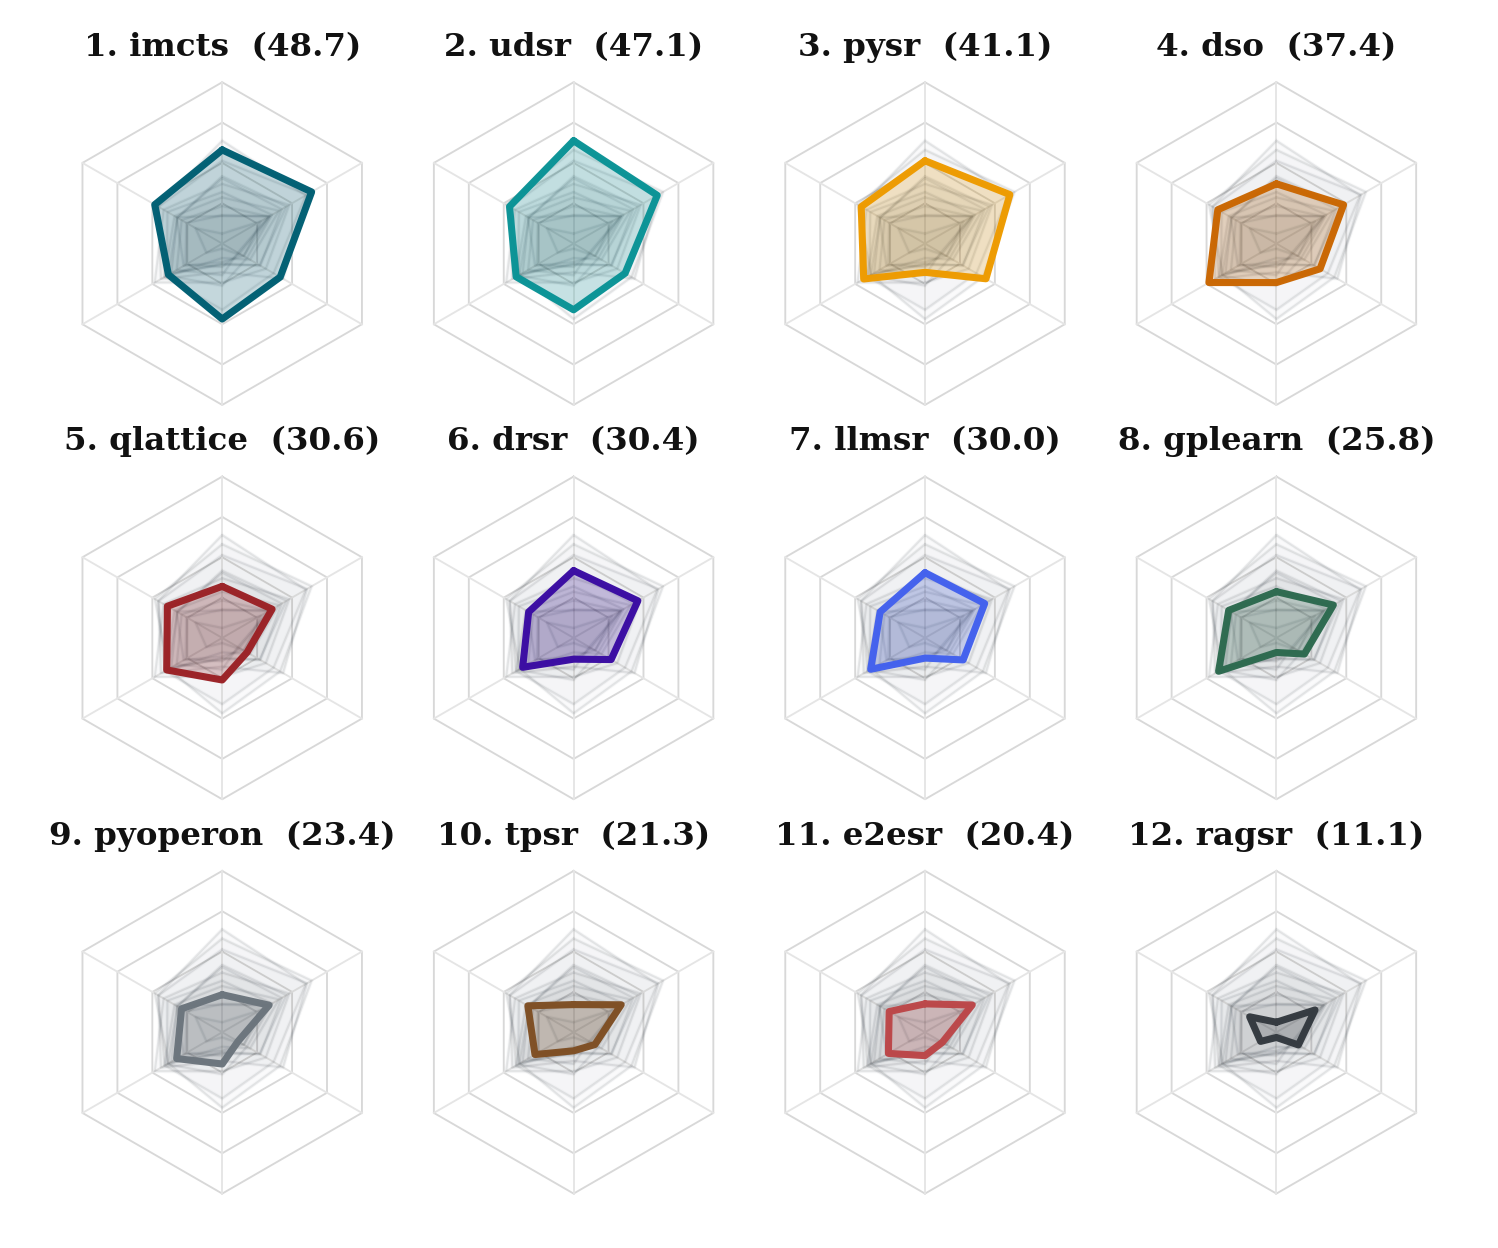
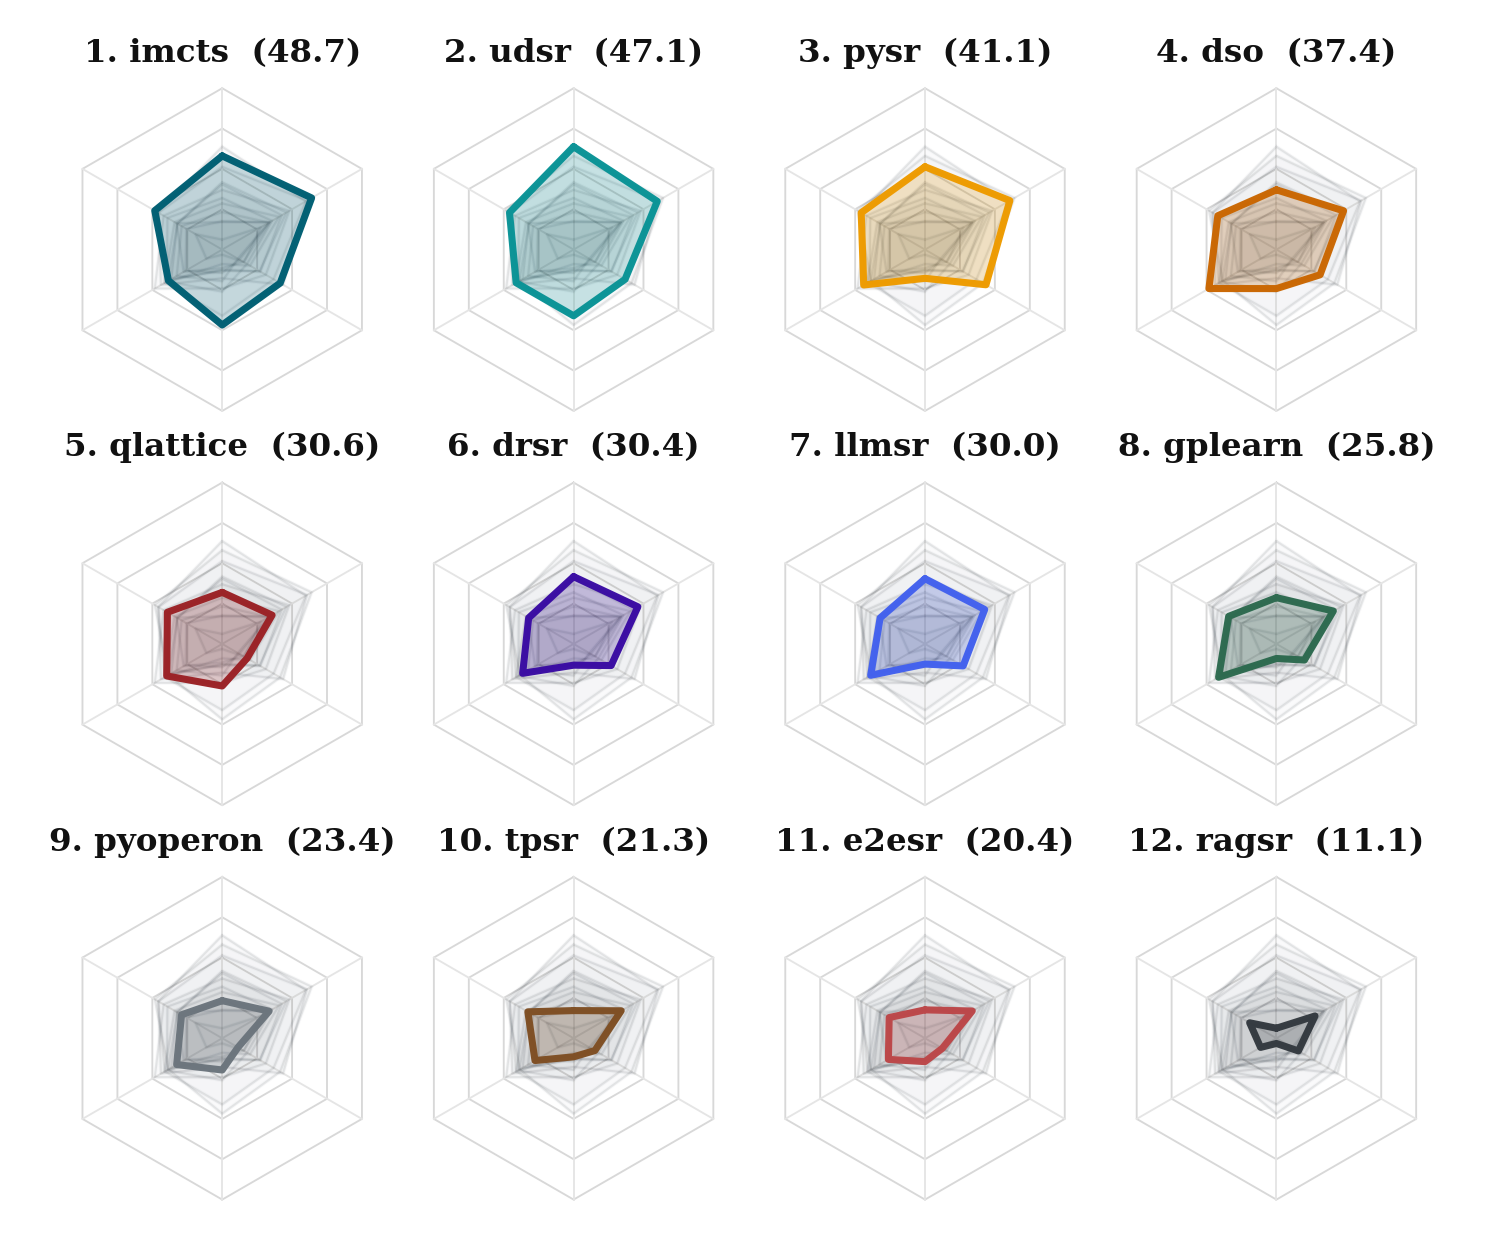
[update] 调整六轴小图上下边距

diff --git a/check/plot_hexagon_small_multiples_neurips.py b/check/plot_hexagon_small_multiples_neurips.py
@@ -30,8 +30,9 @@ AXIS_LABELS = ["ID-Q", "OOD-G", "SYM-F", "EFF", "ROBU", "STAB"]
 SCORE_COL = "HexaScore_formal_with_ROB"
 GRID_SCORE_LEVELS = [0.25, 0.50, 0.75, 1.00]
 HIGHLIGHT_FILL_ALPHA = 0.20
-SAVE_PAD_INCHES = 0.02
-SAVE_TOP_EXTRA_PAD_INCHES = 0.08
+SAVE_SIDE_PAD_INCHES = 0.02
+SAVE_BOTTOM_PAD_INCHES = 0.01
+SAVE_TOP_PAD_INCHES = 0.12
 SUBPLOTS_TOP = 0.935
 HIGHLIGHT_COLORS = [
     "#005f73",
@@ -105,15 +106,15 @@ def draw_grid(ax: plt.Axes, angles: np.ndarray, *, show_axis_labels: bool = Fals
         ax.text(x, y, label, ha=ha, va=va, fontsize=5.8, color="#4b4b4b")
 
 
-def tight_bbox_with_top_padding(fig: plt.Figure) -> Bbox:
-    """对 tight bbox 做非对称扩展：顶部额外留白，其他边保持紧凑。"""
+def tight_bbox_with_asymmetric_padding(fig: plt.Figure) -> Bbox:
+    """对 tight bbox 做非对称扩展：顶部留白更多，底部保持更紧凑。"""
     fig.canvas.draw()
     bbox = fig.get_tightbbox(fig.canvas.get_renderer())
     return Bbox.from_extents(
-        bbox.x0 - SAVE_PAD_INCHES,
-        bbox.y0 - SAVE_PAD_INCHES,
-        bbox.x1 + SAVE_PAD_INCHES,
-        bbox.y1 + SAVE_PAD_INCHES + SAVE_TOP_EXTRA_PAD_INCHES,
+        bbox.x0 - SAVE_SIDE_PAD_INCHES,
+        bbox.y0 - SAVE_BOTTOM_PAD_INCHES,
+        bbox.x1 + SAVE_SIDE_PAD_INCHES,
+        bbox.y1 + SAVE_TOP_PAD_INCHES,
     )
 
 
@@ -173,7 +174,7 @@ def render_small_multiples(
 
     out_png = ANALYSIS_OUT / out_name
     out_pdf = out_png.with_suffix(".pdf")
-    export_bbox = tight_bbox_with_top_padding(fig)
+    export_bbox = tight_bbox_with_asymmetric_padding(fig)
     fig.savefig(out_png, dpi=300, bbox_inches=export_bbox, pad_inches=0)
     fig.savefig(out_pdf, bbox_inches=export_bbox, pad_inches=0)
     plt.close(fig)
@@ -201,8 +202,9 @@ def render_small_multiples(
         "layout_wspace": wspace,
         "layout_hspace": hspace,
         "layout_top": SUBPLOTS_TOP,
-        "save_pad_inches": SAVE_PAD_INCHES,
-        "save_top_extra_pad_inches": SAVE_TOP_EXTRA_PAD_INCHES,
+        "save_side_pad_inches": SAVE_SIDE_PAD_INCHES,
+        "save_bottom_pad_inches": SAVE_BOTTOM_PAD_INCHES,
+        "save_top_pad_inches": SAVE_TOP_PAD_INCHES,
         "axis_labels": "caption_only",
         "axis_order_clockwise_from_top": AXIS_LABELS,
         "radial_scale": "linear: r=score/100",
